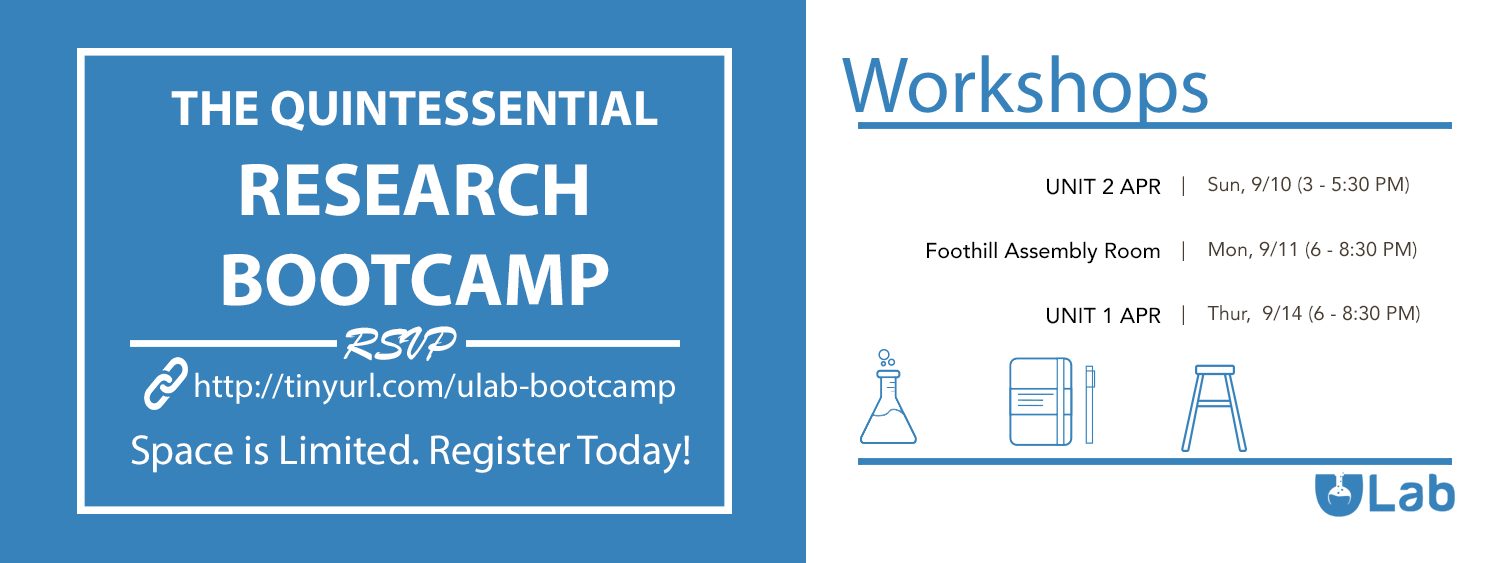
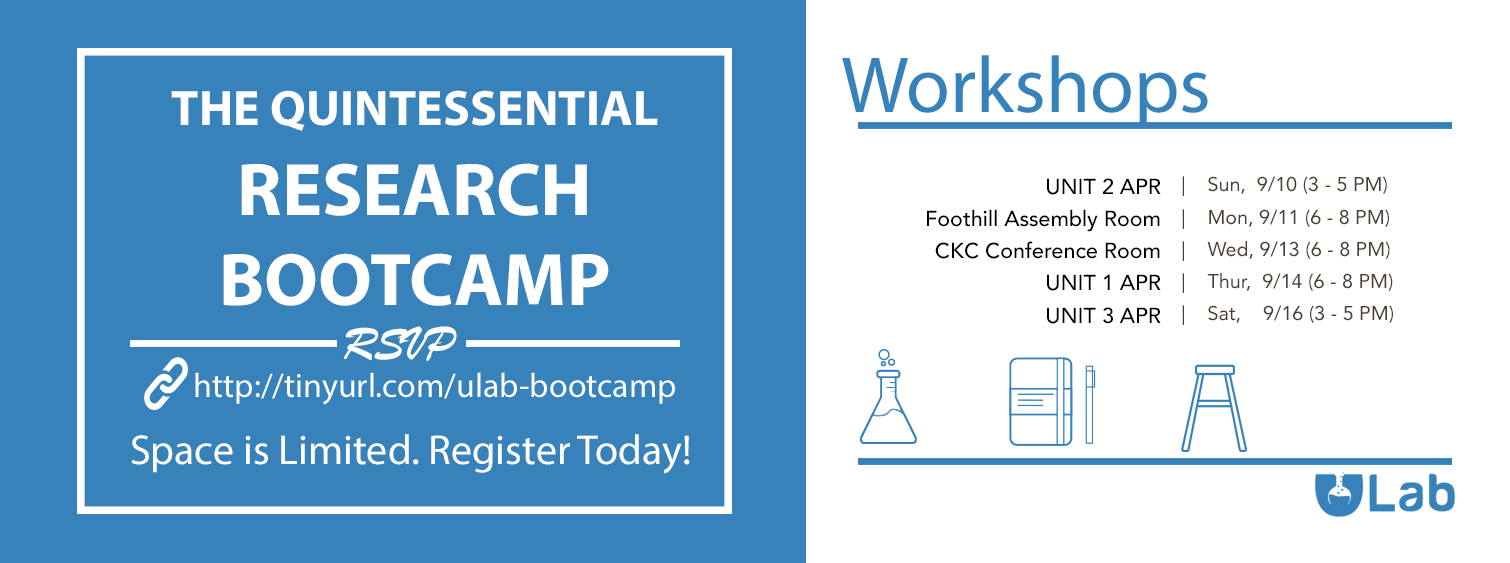
bootcamp push final hopeffully

diff --git a/templates/bootcamp.html b/templates/bootcamp.html
@@ -56,7 +56,9 @@
         <div class="dropdown-menu" aria-labelledby="dropdownMenuLink" style="padding: .5em;">
           <a class="dropdown-item" style="display:block" href="https://docs.google.com/document/d/1_UA-3jK8VYPT4RC4AfSZYqRFabdxAZ2gZPeEiixBwEc/edit?usp=sharing">Unit 2</a>
           <a class="dropdown-item" style="display:block" href="https://docs.google.com/document/d/1xYne48bKvW5RtH3fz1wVqOmwms42UE3iQRZENQpTkdk/edit?usp=sharing">Foothill</a>
+          <a class="dropdown-item" style="display:block" href="https://docs.google.com/document/d/1GpIdIjX-ScUCuv3PR79BDZSG1bFyM1PWw4WrlazEFcM/edit?usp=sharing">CKC</a>
           <a class="dropdown-item" style="display:block" href="https://docs.google.com/document/d/1Xxy2IG82Sjrwr102Iu5ULA-kcHhbiZWCyYSUihjWECs/edit?usp=sharing">Unit 1</a>
+          <a class="dropdown-item" style="display:block" href="https://docs.google.com/document/d/1RmL50iQOLQMihOGM6aFWJx9F50CiyFcptZeNHL2F5g0/edit?usp=sharing">Unit 3</a>
         </div>
       </div>
     </div>
